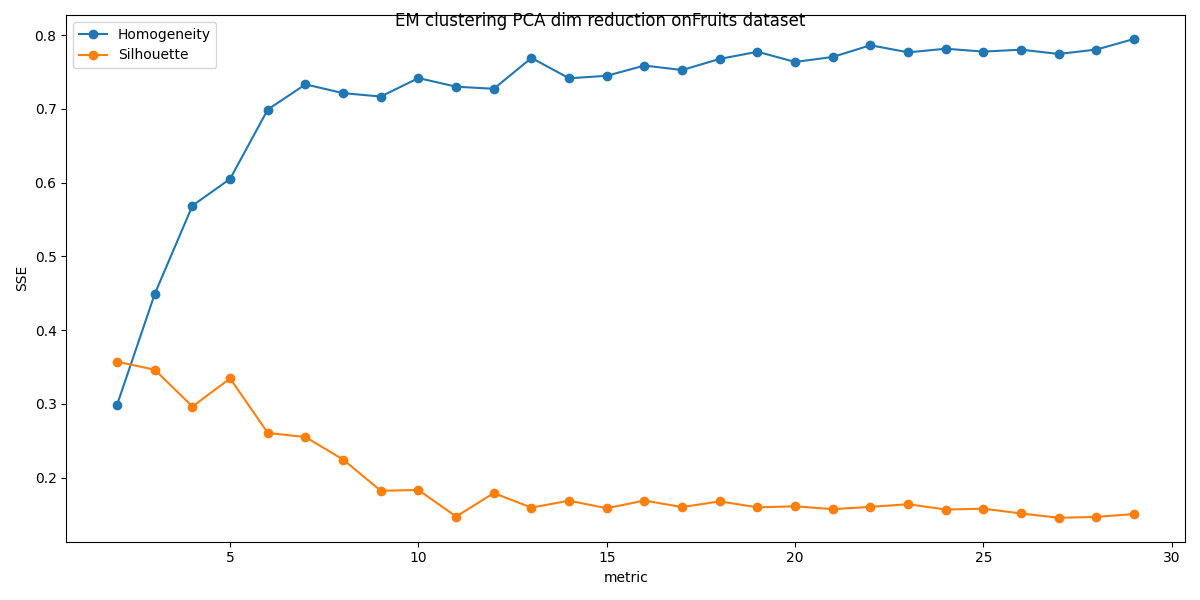
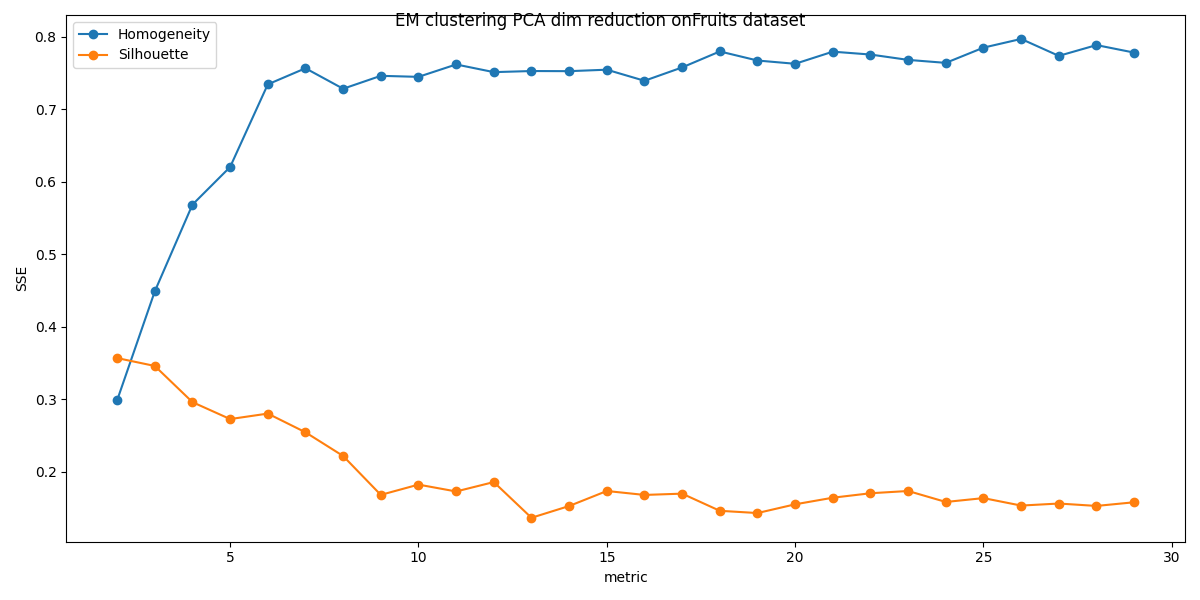
second

diff --git a/parter.py b/parter.py
@@ -144,7 +144,7 @@ def part_3(dataset,method,reduction):
             Homogeneity.append(homogeneity_score(train_y, kmeans_clus.labels_))
             Silhouette.append(silhouette_score(train_x, kmeans_clus.labels_, metric='euclidean'))
         else:
-            kmeans_clus = GaussianMixture(n_components=i, max_iter=100, random_state=44, n_init=5).fit(train_x)
+            kmeans_clus = GaussianMixture(n_components=i, max_iter=100, random_state=812, n_init=5).fit(train_x)
             Homogeneity.append(homogeneity_score(train_y, kmeans_clus.predict(train_x)))
             Silhouette.append(silhouette_score(train_x, kmeans_clus.predict(train_x), metric='euclidean'))
     print("Part 3")
@@ -242,7 +242,7 @@ def part_5(dat,split):
                 kmeans_clus = KMeans(n_clusters=7, max_iter=2000, random_state=812, n_init=10).fit(pca)
                 pca_labels = kmeans_clus.labels_
             else:
-                kmeans_clus = GaussianMixture(n_components=7, max_iter=100, random_state=44, n_init=5).fit(pca)
+                kmeans_clus = GaussianMixture(n_components=7, max_iter=100, random_state=812, n_init=5).fit(pca)
                 pca_labels=kmeans_clus.predict(pca)
             Train_x,Test_x,Train_y,Test_Y=pca[:splitter,:],pca[splitter:,:],pca_labels[:splitter],pca_labels[splitter:]
             Classifier = MLPClassifier(tol=0.005, hidden_layer_sizes=[25, 25], activation='relu',learning_rate="constant", learning_rate_init=0.01, random_state=812)

diff --git a/HW3.py b/HW3.py
@@ -63,18 +63,18 @@ if 1:
     a_3,b_3=part_1(phones_train_x,phones_train_y,"Phones dataset",method="EM")
     plotter_23((a_0,b_0,b_1,a_2,b_2,b_3),"part_1.png")
     t0=time.time()
-    KMeans(n_clusters=20, max_iter=2000, random_state=812, n_init=10).fit(fruits_train_x)
+    KMeans(n_clusters=7, max_iter=2000, random_state=812, n_init=10).fit(fruits_train_x)
     print(time.time()-t0," seconds to run KMEANS on FRUITS data set")
     t0 = time.time()
-    KMeans(n_clusters=17, max_iter=2000, random_state=812, n_init=10).fit(phones_train_x)
+    KMeans(n_clusters=5, max_iter=2000, random_state=812, n_init=10).fit(phones_train_x)
     print(time.time() - t0, " seconds to run KMEANS on Phones data set")
 
     t0 = time.time()
-    GaussianMixture(n_components=20, max_iter=100, random_state=44,n_init=5).fit(fruits_train_x)
-    print(time.time() - t0, " seconds to run KMEANS on FRUITS data set")
+    GaussianMixture(n_components=7, max_iter=100, random_state=812,n_init=5).fit(fruits_train_x)
+    print(time.time() - t0, " seconds to run EM on FRUITS data set")
     t0 = time.time()
-    KMeans(n_clusters=17, max_iter=2000, random_state=812, n_init=10).fit(phones_train_x)
-    print(time.time() - t0, " seconds to run KMEANS on Phones data set")
+    GaussianMixture(n_components=5, max_iter=100, random_state=812,n_init=5).fit(phones_train_x)
+    print(time.time() - t0, " seconds to run EM on Phones data set")
 
 if 1:
     # part_2 runner
